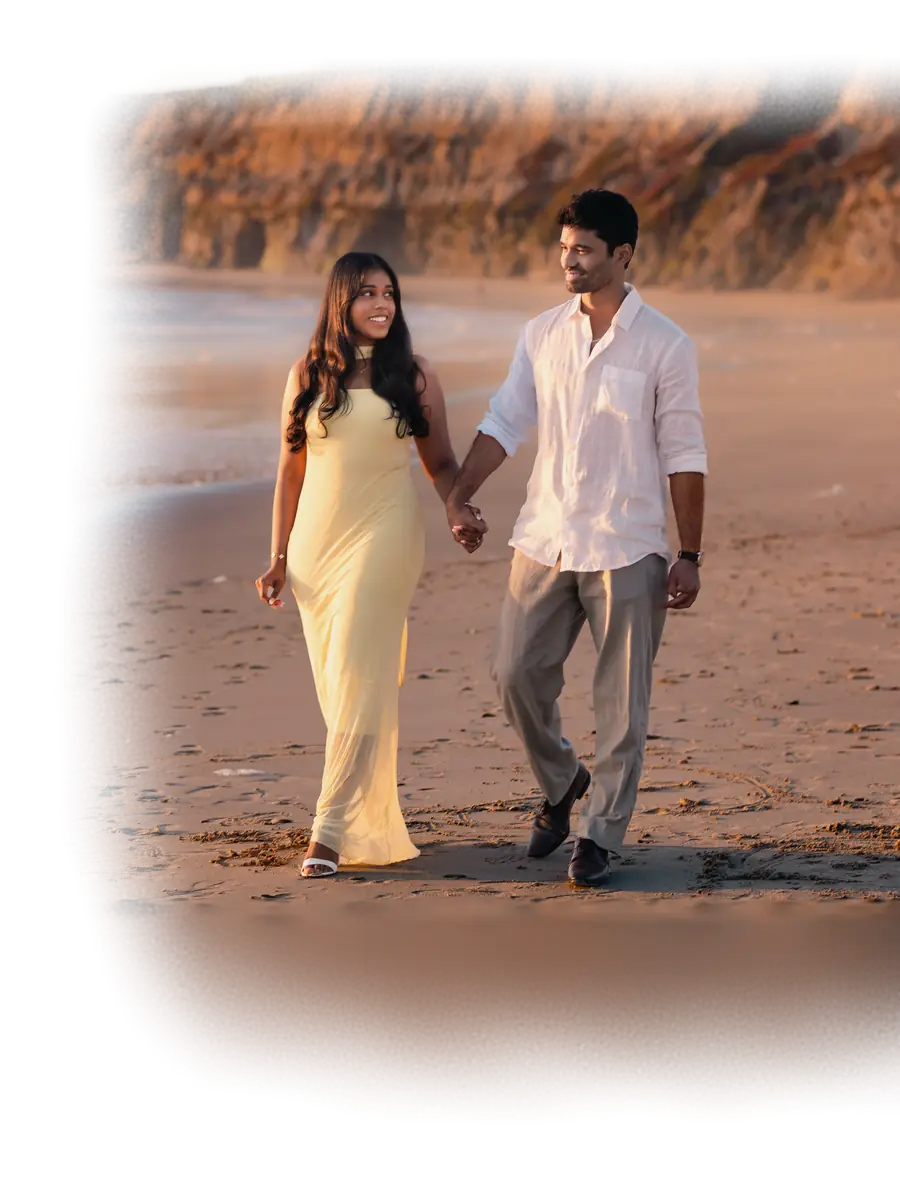
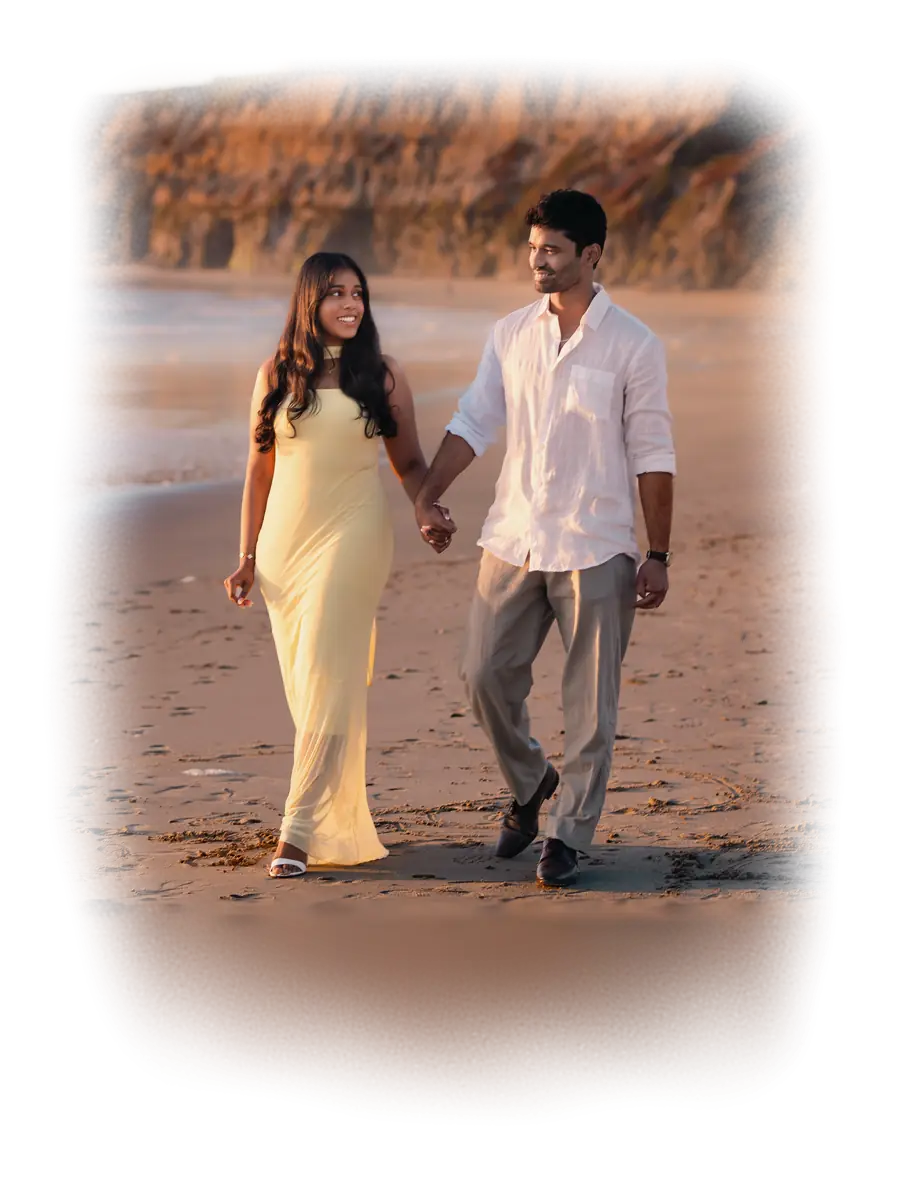
Let the photograph thin out on all four sides on a phone too
The client preferred it to running off the right-hand edge of the screen.
The phone's cut is centred on the two of them again, with narrower side bands
than the wide one's because they fill more of the frame: their hands stay
whole, and both sides reach nothing before the screen's edge.

diff --git a/tools/paint.py b/tools/paint.py
@@ -701,9 +701,13 @@ COUPLE_TONE = 0.6
 #: How much the thin paint takes the paper's tooth.
 COUPLE_TOOTH = 0.10
 COUPLE = {
-    # Runs off the right: on a phone that side is the edge of the screen.
-    "couple-tall": dict(crop=(0.17, 0.0, 0.83, 1.0), width=900, more=0.30,
-                        band=(0.21, 0.115, 0.0, 0.2), lift=(0.25, 0.0), push=(0.03, 0.012), seed=7),
+    # Thins out on all four sides, on a phone as well: the client's choice,
+    # October 2026, over running off the right-hand edge of the screen. The
+    # sides are narrower than the wide one's, because the two of them fill
+    # more of this frame: her hand is 25% in from the left and his 25% in
+    # from the right.
+    "couple-tall": dict(crop=(0.193, 0.0, 0.853, 1.0), width=900, more=0.30,
+                        band=(0.17, 0.115, 0.17, 0.2), lift=(0.25, 0.25), push=(0.025, 0.012), seed=7),
     "couple-wide": dict(crop=(0.0, 0.0, 1.0, 1.0), width=1400, more=0.22,
                         band=(0.25, 0.112, 0.21, 0.15), lift=(0.22, 0.22), push=(0.05, 0.02), seed=11),
 }

diff --git a/ASSETS.md b/ASSETS.md
@@ -31,7 +31,7 @@ revision. The photographs and the card's paper are Unsplash's.)
 
 | File | What | Source | Shipped |
 |---|---|---|---|
-| `assets/private/proposal.jpg` → `public/photos/couple-tall.webp`, `public/photos/couple-wide.webp` | Advika & Sooraj walking along a beach; at the close, above their note. `couple()` in `tools/paint.py` cuts it twice (tall for a phone, the whole frame wider), tones it a little toward the field's ground, carries the sand on below their feet and gives it a wash's edge instead of a frame (900×1182, 127 KB; 1400×1138, 208 KB) | Taken by their photographer, Able Liang of Able2Capture, © 2026. Supplied by the client, who confirmed on 5 October 2026 that it may be used on this page and that no credit is asked | The two WebPs only |
+| `assets/private/proposal.jpg` → `public/photos/couple-tall.webp`, `public/photos/couple-wide.webp` | Advika & Sooraj walking along a beach; at the close, above their note. `couple()` in `tools/paint.py` cuts it twice (tall for a phone, the whole frame wider), tones it a little toward the field's ground, carries the sand on below their feet and gives it a wash's edge instead of a frame (900×1182, 140 KB; 1400×1138, 208 KB) | Taken by their photographer, Able Liang of Able2Capture, © 2026. Supplied by the client, who confirmed on 5 October 2026 that it may be used on this page and that no credit is asked | The two WebPs only |
 
 **The original is not in the repository, on purpose.** The repository is
 public and the full-size file (5731×3821, 9.1 MB) is the photographer's work. It
